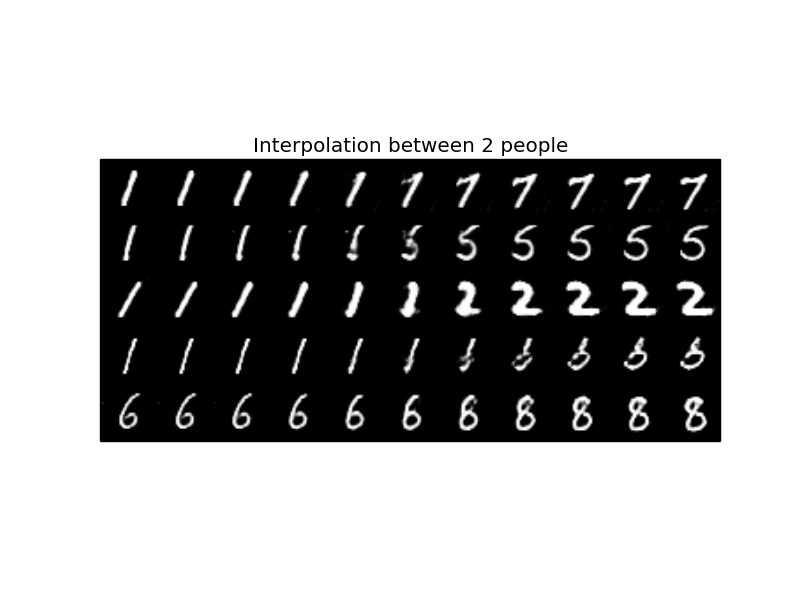
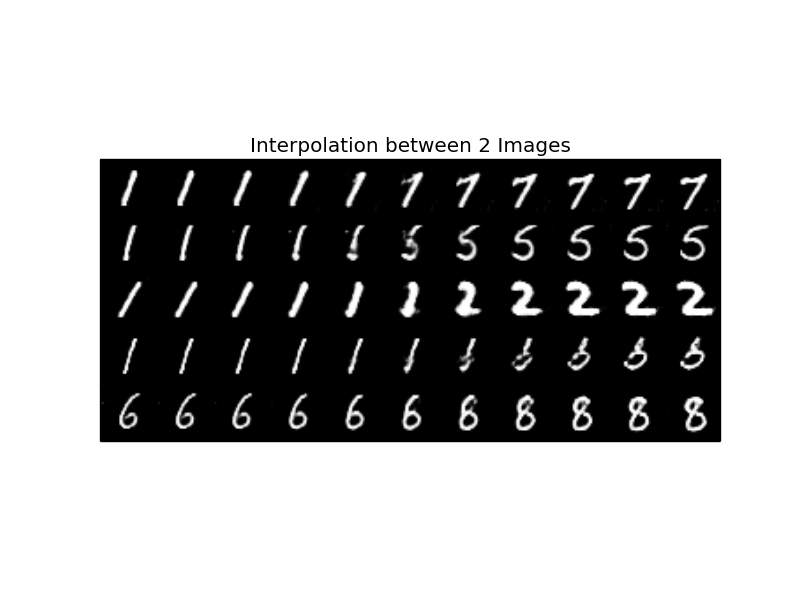
Updated IcGAN MNIST results

Changed region(s): [[0.3125, 0.21, 0.7188, 0.27]]

diff --git a/test/test_icgan.py b/test/test_icgan.py
@@ -66,7 +66,7 @@ def test_icgan(configuration):
 
     # Reconstruct + change attributes
     # Torch implementation gets running train batch norms std and mean, this uses fixed vals
-    all_reconstructions = np.zeros((li*num_people, li*(lab_ln + 1), nc)).astype(np.float32)
+    all_reconstructions = np.zeros((li*num_people, li*(lab_ln + 2), nc)).astype(np.float32)
     indices = np.random.randint(0, X_files_test.shape[0], num_people)
     for index in range(0, num_people):
         image = dataset_loader(X_files_test[indices[index]], 1, li)
@@ -86,20 +86,22 @@ def test_icgan(configuration):
         generated_ims = gen_fn(z_permutations, y_permutations)
 
         # Map reconstructions to main image
+        all_reconstructions[li*index: li*index + li, 0: li, :] = deprocess_image(image, li, nc)
+
         for n in range(0, generated_ims.shape[0]):
-            all_reconstructions[li*index: li*index + li, li*n: li*n + li, :] = deprocess_image(generated_ims[n, :, :, : ], li, nc)
+            all_reconstructions[li*index: li*index + li, li*(n + 1): li*(n + 1) + li,
+                                :] = deprocess_image(generated_ims[n, :, :, : ], li, nc)
 
     # Plot the reconstruction
     fig, ax = plt.subplots()
+    plt.gcf().subplots_adjust(bottom=0.3)
 
     ax.set_yticks([])
-    ax.set_xticks(np.arange(0, li * len(labels) + li, li) + (li / 2), minor=False)
+    ax.set_xticks(np.arange(0, li * len(labels) + 2*li, li) + (li / 2), minor=False)
 
-    ax.set_xlabel('Description')
-    ax.set_ylabel('Person')
     ax.set_title("Sample Generated Images")
 
-    ax.set_xticklabels(['Reconstruction'] + labels, rotation='vertical', minor=False)
+    ax.set_xticklabels(['Original', 'Reconstruction'] + labels, rotation='vertical', minor=False)
     ax.set_yticklabels([])
     
     if nc == 1:
@@ -201,7 +203,7 @@ def test_icgan(configuration):
     ax.set_xticklabels([])
     ax.set_yticklabels([])
 
-    ax.set_title("Interpolation between 2 people")
+    ax.set_title("Interpolation between 2 Images")
 
     if nc == 1:
         plt.imshow(np.squeeze(interpolations), cmap='gray')
